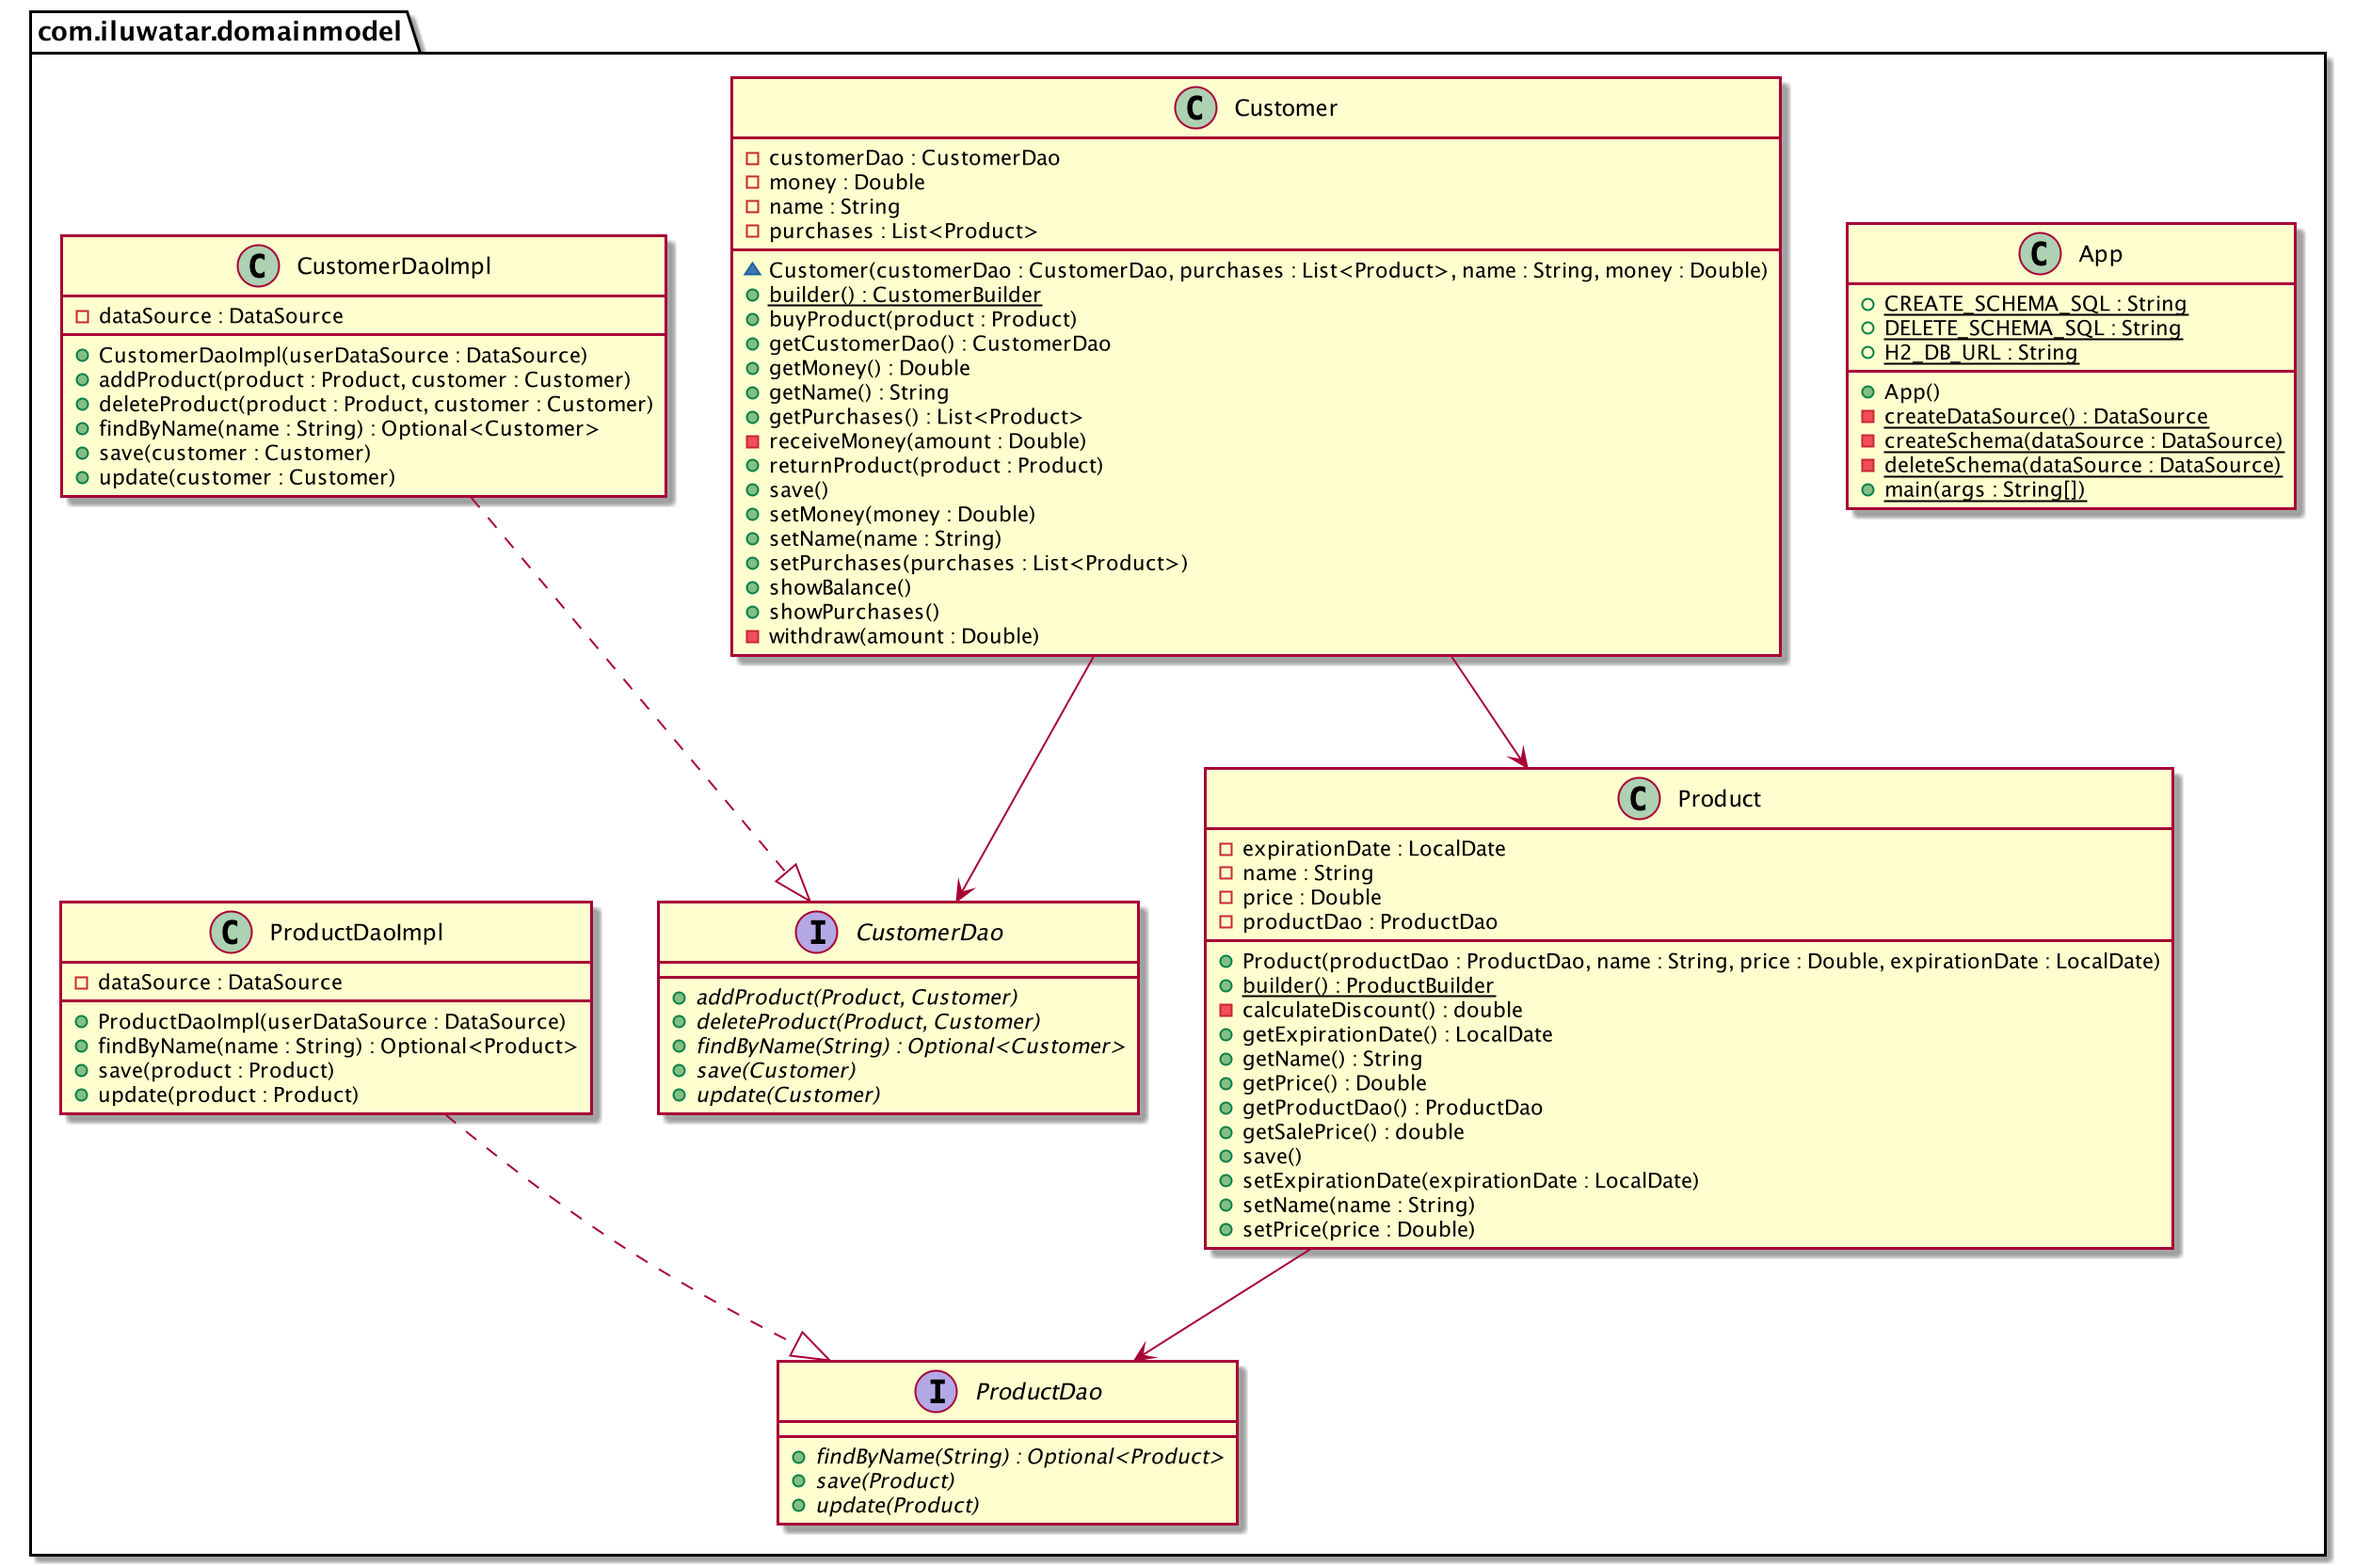
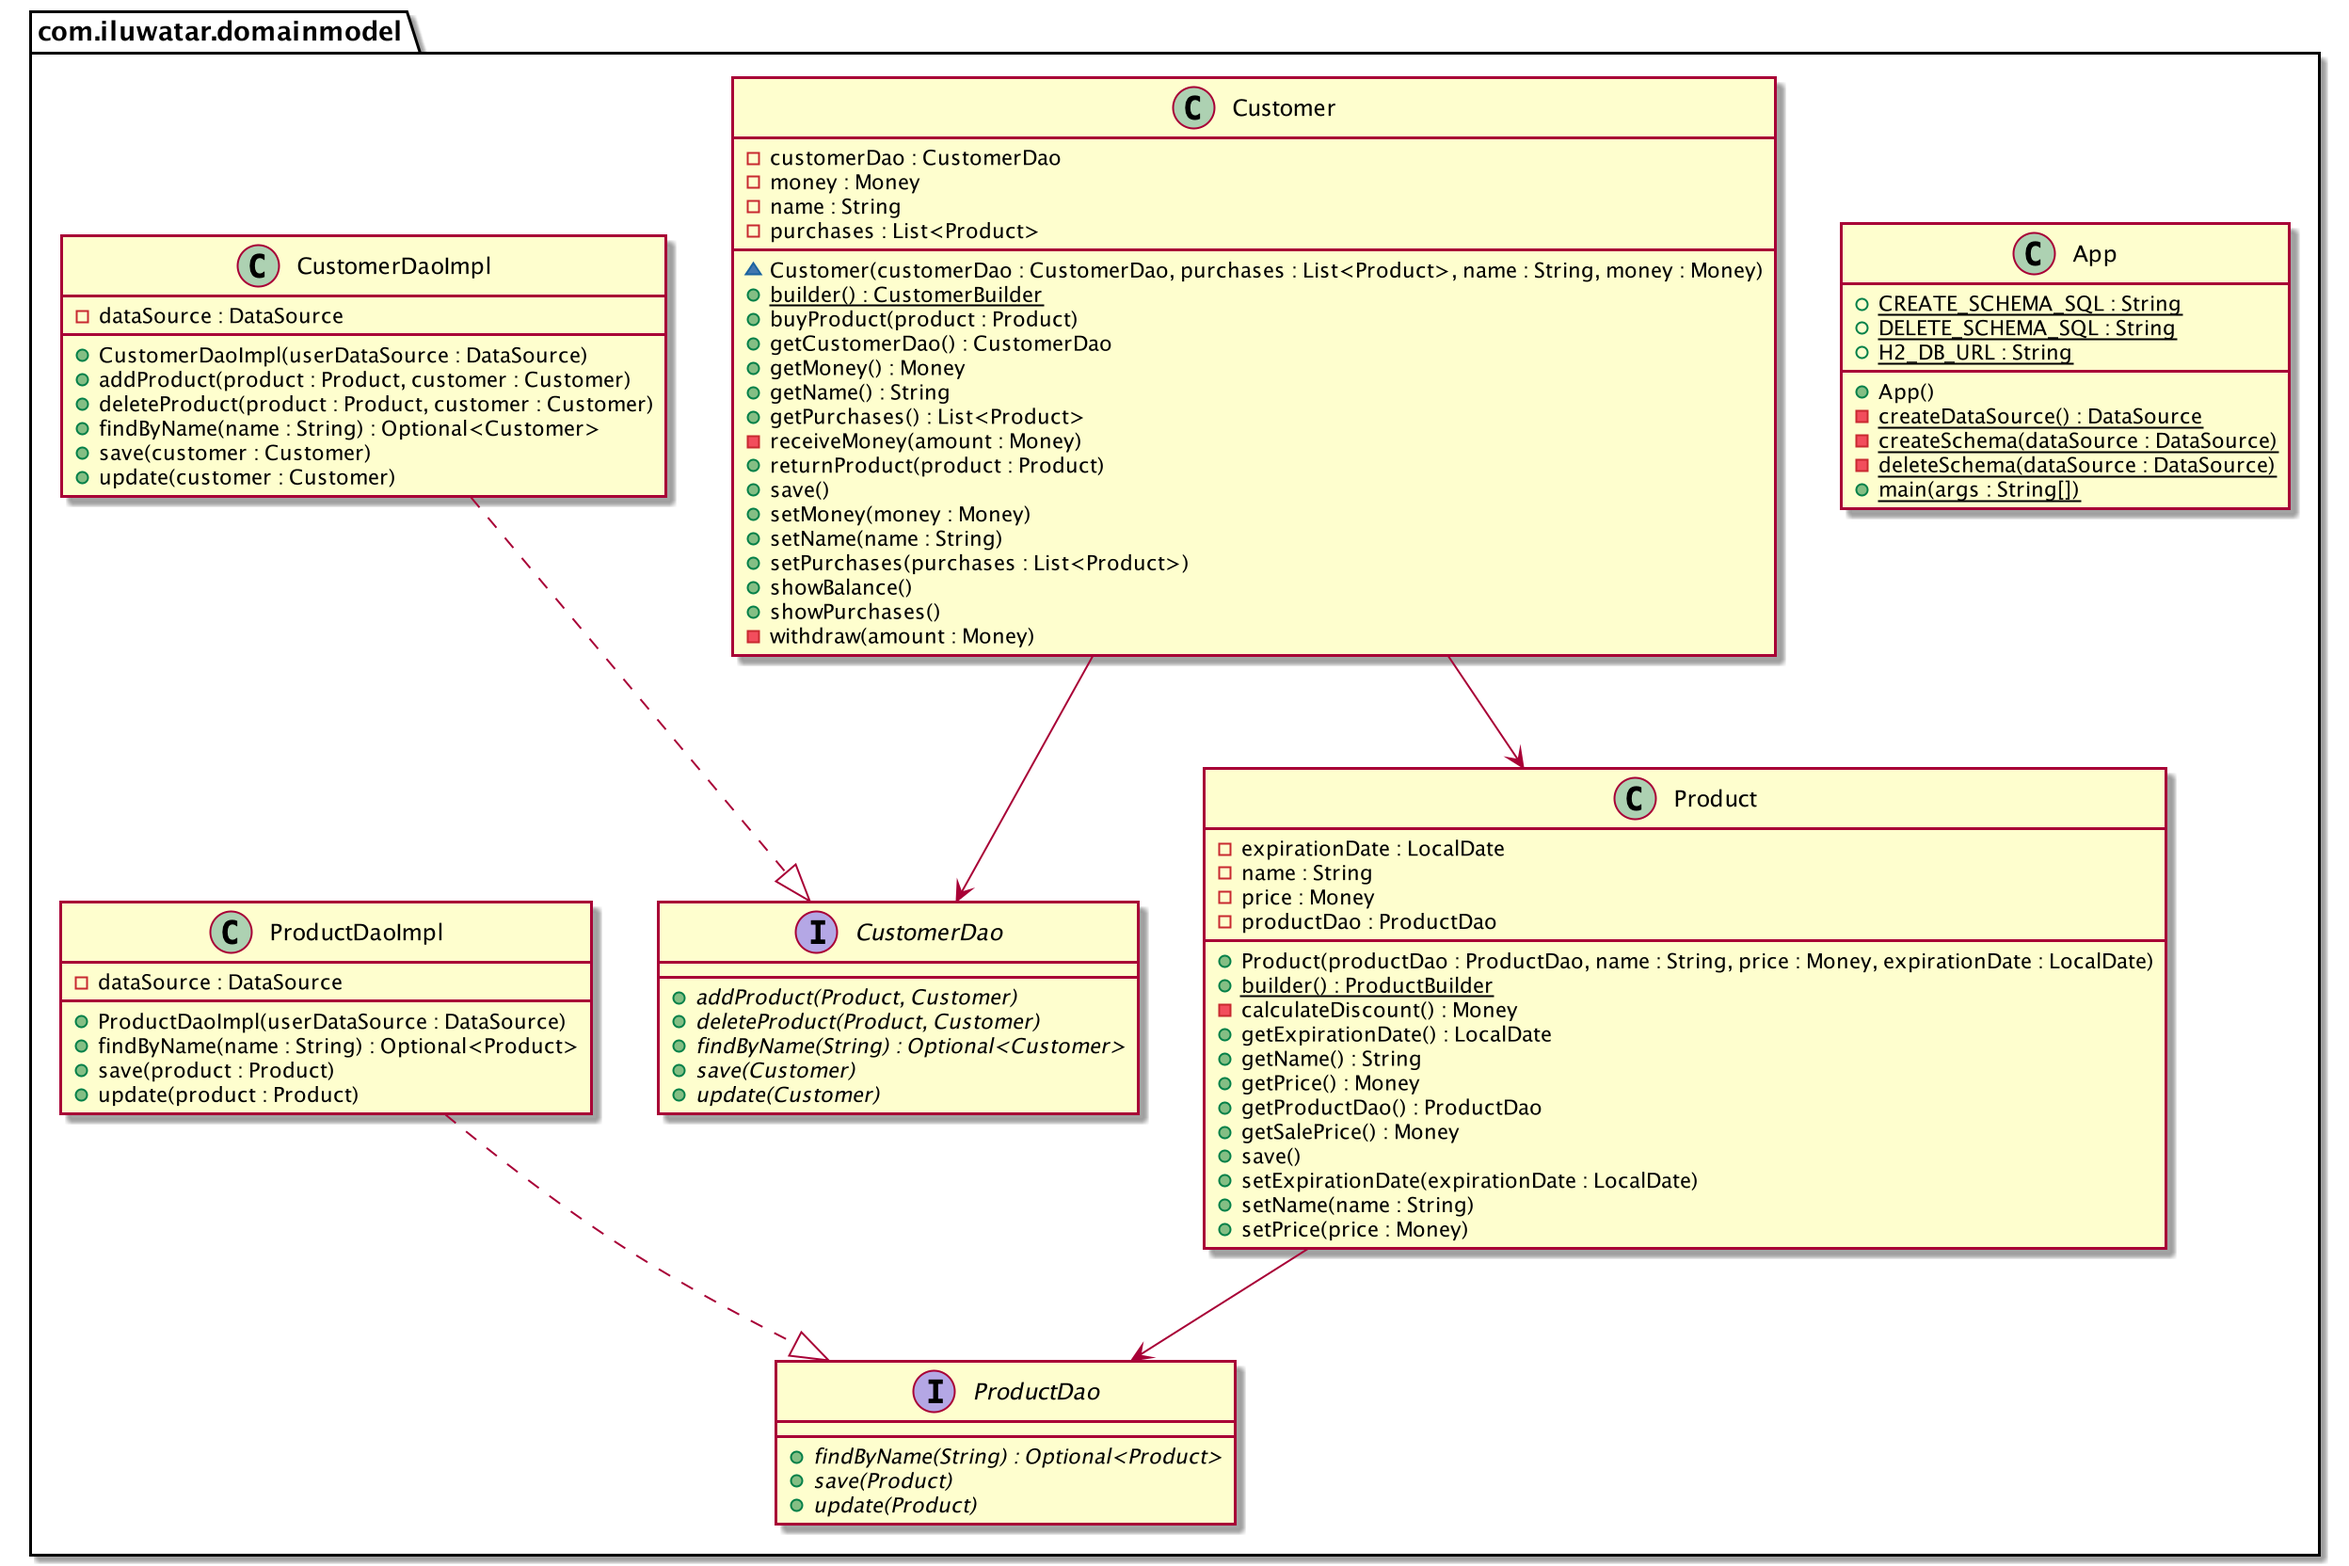
updated readme and diagrams

diff --git a/domain-model/README.md b/domain-model/README.md
@@ -38,7 +38,7 @@ public class Product {
 
     @NonNull private final ProductDao productDao;
     @NonNull private String name;
-    @NonNull private Double price;
+    @NonNull private Money price;
     @NonNull private LocalDate expirationDate;
 
     /**
@@ -60,18 +60,18 @@ public class Product {
     /**
      * Calculate sale price of product with discount.
      */
-    public double getSalePrice() {
-        return price - calculateDiscount();
+    public Money getSalePrice() {
+        return price.minus(calculateDiscount());
     }
 
-    private double calculateDiscount() {
+    private Money calculateDiscount() {
         if (ChronoUnit.DAYS.between(LocalDate.now(), expirationDate)
                 < DAYS_UNTIL_EXPIRATION_WHEN_DISCOUNT_ACTIVE) {
 
-            return price * DISCOUNT_RATE;
+            return price.multipliedBy(DISCOUNT_RATE, RoundingMode.DOWN);
         }
 
-        return 0;
+        return Money.zero(USD);
     }
 }
 ```
@@ -88,7 +88,7 @@ public class Customer {
     @NonNull private final CustomerDao customerDao;
     @Builder.Default private List<Product> purchases = new ArrayList<>();
     @NonNull private String name;
-    @NonNull private Double money;
+    @NonNull private Money money;
 
     /**
      * Save customer or update if customer already exist.
@@ -114,14 +114,15 @@ public class Customer {
     public void buyProduct(Product product) {
         LOGGER.info(
                 String.format(
-                        "%s want to buy %s($%.2f)...", name, product.getName(), product.getSalePrice()));
+                        "%s want to buy %s($%.2f)...",
+                        name, product.getName(), product.getSalePrice().getAmount()));
         try {
-            try {
-                withdraw(product.getSalePrice());
-            } catch (IllegalArgumentException ex) {
-                LOGGER.error(ex.getMessage());
-                return;
-            }
+            withdraw(product.getSalePrice());
+        } catch (IllegalArgumentException ex) {
+            LOGGER.error(ex.getMessage());
+            return;
+        }
+        try {
             customerDao.addProduct(product, this);
             purchases.add(product);
             LOGGER.info(String.format("%s bought %s!", name, product.getName()));
@@ -139,13 +140,14 @@ public class Customer {
     public void returnProduct(Product product) {
         LOGGER.info(
                 String.format(
-                        "%s want to return %s($%.2f)...", name, product.getName(), product.getSalePrice()));
+                        "%s want to return %s($%.2f)...",
+                        name, product.getName(), product.getSalePrice().getAmount()));
         if (purchases.contains(product)) {
             try {
                 customerDao.deleteProduct(product, this);
                 purchases.remove(product);
                 receiveMoney(product.getSalePrice());
-                LOGGER.info(String.format("%s return %s!", name, product.getName()));
+                LOGGER.info(String.format("%s returned %s!", name, product.getName()));
             } catch (SQLException ex) {
                 LOGGER.error(ex.getMessage());
             }
@@ -158,15 +160,15 @@ public class Customer {
      * Print customer's purchases.
      */
     public void showPurchases() {
-        if (purchases.isEmpty()) {
-            LOGGER.info(name + " didn't buy anything");
+        Optional<String> purchasesToShow =
+                purchases.stream()
+                        .map(p -> p.getName() + " - $" + p.getSalePrice().getAmount())
+                        .reduce((p1, p2) -> p1 + ", " + p2);
+
+        if (purchasesToShow.isPresent()) {
+            LOGGER.info(name + " bought: " + purchasesToShow.get());
         } else {
-            LOGGER.info(
-                    name + " bought: "
-                            + purchases.stream()
-                            .map(p -> p.getName() + " - $" + p.getSalePrice())
-                            .reduce((p1, p2) -> p1 + ", " + p2)
-                            .get());
+            LOGGER.info(name + " didn't bought anything");
         }
     }
 
@@ -174,19 +176,20 @@ public class Customer {
      * Print customer's money balance.
      */
     public void showBalance() {
-        LOGGER.info(name + " balance: $" + money);
+        LOGGER.info(name + " balance: " + money);
     }
 
-    private void withdraw(Double amount) throws IllegalArgumentException {
-        if (money - amount < 0) {
+    private void withdraw(Money amount) throws IllegalArgumentException {
+        if (money.compareTo(amount) < 0) {
             throw new IllegalArgumentException("Not enough money!");
         }
-        money -= amount;
+        money = money.minus(amount);
     }
 
-    private void receiveMoney(Double amount) {
-        money += amount;
+    private void receiveMoney(Money amount) {
+        money = money.plus(amount);
     }
+}
 ```
 
 In the class `App`, we create a new instance of class Customer which represents customer Tom and handle data and actions of that customer and creating three products that Tom wants to buy.
@@ -199,9 +202,14 @@ deleteSchema(dataSource);
 createSchema(dataSource);
 
 // create customer
-// var customerDao = new CustomerDaoImpl(dataSource);
+var customerDao = new CustomerDaoImpl(dataSource);
 
-var tom = Customer.builder().name("Tom").money(30.0).customerDao(customerDao).build();
+var tom =
+    Customer.builder()
+        .name("Tom")
+        .money(Money.of(USD, 30))
+        .customerDao(customerDao)
+        .build();
 
 tom.save();
 
@@ -211,7 +219,7 @@ var productDao = new ProductDaoImpl(dataSource);
 var eggs =
     Product.builder()
         .name("Eggs")
-        .price(10.0)
+        .price(Money.of(USD, 10.0))
         .expirationDate(LocalDate.now().plusDays(7))
         .productDao(productDao)
         .build();
@@ -219,7 +227,7 @@ var eggs =
 var butter =
     Product.builder()
         .name("Butter")
-        .price(20.00)
+        .price(Money.of(USD, 20.00))
         .expirationDate(LocalDate.now().plusDays(9))
         .productDao(productDao)
         .build();
@@ -227,7 +235,7 @@ var butter =
 var cheese =
     Product.builder()
         .name("Cheese")
-        .price(25.0)
+        .price(Money.of(USD, 25.0))
         .expirationDate(LocalDate.now().plusDays(2))
         .productDao(productDao)
         .build();
@@ -271,24 +279,24 @@ tom.showPurchases();
 The program output:
 
 ```java
-16:33:58.602 [main] INFO com.iluwatar.domainmodel.Customer - Tom balance: $30.0
-16:33:58.608 [main] INFO com.iluwatar.domainmodel.Customer - Tom didn't buy anything
-16:33:58.616 [main] INFO com.iluwatar.domainmodel.Customer - Tom want to buy Eggs($10.00)...
-16:33:58.631 [main] INFO com.iluwatar.domainmodel.Customer - Tom bought Eggs!
-16:33:58.631 [main] INFO com.iluwatar.domainmodel.Customer - Tom balance: $20.0
-16:33:58.631 [main] INFO com.iluwatar.domainmodel.Customer - Tom want to buy Butter($20.00)...
-16:33:58.639 [main] INFO com.iluwatar.domainmodel.Customer - Tom bought Butter!
-16:33:58.639 [main] INFO com.iluwatar.domainmodel.Customer - Tom balance: $0.0
-16:33:58.639 [main] INFO com.iluwatar.domainmodel.Customer - Tom want to buy Cheese($20.00)...
-16:33:58.639 [main] ERROR com.iluwatar.domainmodel.Customer - Not enough money!
-16:33:58.639 [main] INFO com.iluwatar.domainmodel.Customer - Tom balance: $0.0
-16:33:58.639 [main] INFO com.iluwatar.domainmodel.Customer - Tom want to return Butter($20.00)...
-16:33:58.649 [main] INFO com.iluwatar.domainmodel.Customer - Tom returned Butter!
-16:33:58.649 [main] INFO com.iluwatar.domainmodel.Customer - Tom balance: $20.0
-16:33:58.650 [main] INFO com.iluwatar.domainmodel.Customer - Tom want to buy Cheese($20.00)...
-16:33:58.657 [main] INFO com.iluwatar.domainmodel.Customer - Tom bought Cheese!
-16:33:58.669 [main] INFO com.iluwatar.domainmodel.Customer - Tom balance: $0.0
-16:33:58.674 [main] INFO com.iluwatar.domainmodel.Customer - Tom bought: Eggs - $10.0, Cheese - $20.0
+17:52:28.690 [main] INFO com.iluwatar.domainmodel.Customer - Tom balance: USD 30.00
+17:52:28.695 [main] INFO com.iluwatar.domainmodel.Customer - Tom didn't bought anything
+17:52:28.699 [main] INFO com.iluwatar.domainmodel.Customer - Tom want to buy Eggs($10.00)...
+17:52:28.705 [main] INFO com.iluwatar.domainmodel.Customer - Tom bought Eggs!
+17:52:28.705 [main] INFO com.iluwatar.domainmodel.Customer - Tom balance: USD 20.00
+17:52:28.705 [main] INFO com.iluwatar.domainmodel.Customer - Tom want to buy Butter($20.00)...
+17:52:28.712 [main] INFO com.iluwatar.domainmodel.Customer - Tom bought Butter!
+17:52:28.712 [main] INFO com.iluwatar.domainmodel.Customer - Tom balance: USD 0.00
+17:52:28.712 [main] INFO com.iluwatar.domainmodel.Customer - Tom want to buy Cheese($20.00)...
+17:52:28.712 [main] ERROR com.iluwatar.domainmodel.Customer - Not enough money!
+17:52:28.712 [main] INFO com.iluwatar.domainmodel.Customer - Tom balance: USD 0.00
+17:52:28.712 [main] INFO com.iluwatar.domainmodel.Customer - Tom want to return Butter($20.00)...
+17:52:28.721 [main] INFO com.iluwatar.domainmodel.Customer - Tom returned Butter!
+17:52:28.721 [main] INFO com.iluwatar.domainmodel.Customer - Tom balance: USD 20.00
+17:52:28.721 [main] INFO com.iluwatar.domainmodel.Customer - Tom want to buy Cheese($20.00)...
+17:52:28.726 [main] INFO com.iluwatar.domainmodel.Customer - Tom bought Cheese!
+17:52:28.737 [main] INFO com.iluwatar.domainmodel.Customer - Tom balance: USD 0.00
+17:52:28.738 [main] INFO com.iluwatar.domainmodel.Customer - Tom bought: Eggs - $10.00, Cheese - $20.00
 ```
 
 ## Class diagram
